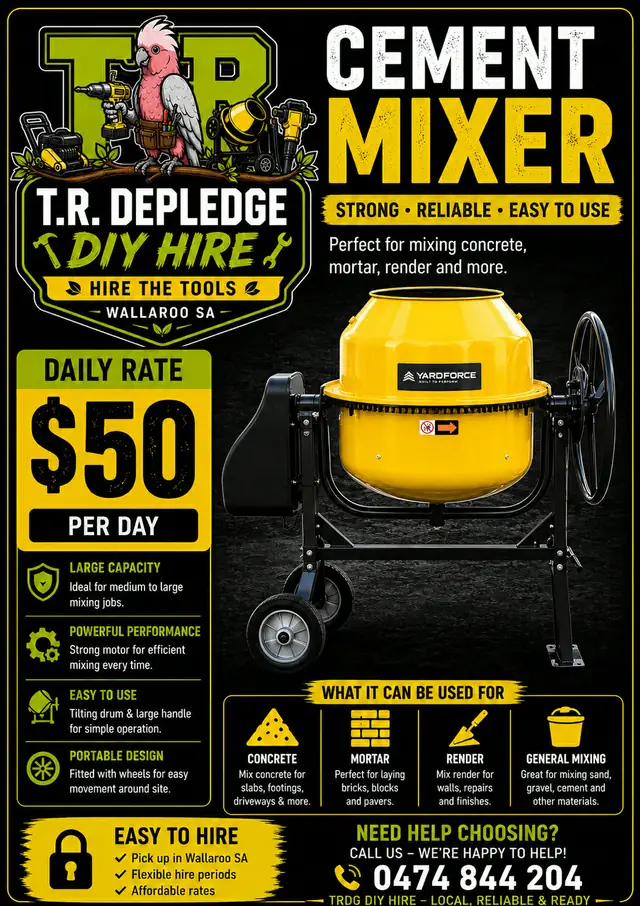
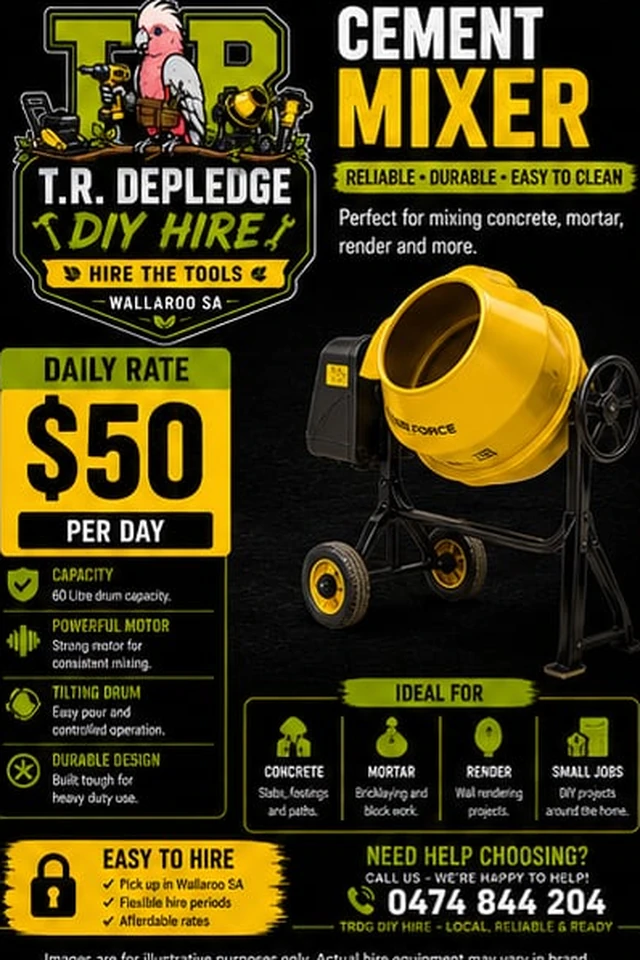
Hire: card photos cut from the new flyers, so they match
The cards and the flyers had drifted apart. On the live page the digger
was orange and the breaker was blue while their flyers showed yellow ones,
and two cards had the OLD flyer's own text baked into the crop — a line of
body copy across the top of the mixer, a slice of rate block beside the
breaker.

Worse, the flyers those cards linked to still quoted the old prices: $80
digger, $80 hammer, $30 roller, against $50 apiece in the database. A
customer opening "View the flyer" was reading a different price from the
one on the card.

All five panels of the new sheet are now cut out and installed, and each
card photo is lifted from its own panel. Taking both from one source makes
that class of mistake impossible rather than merely fixed.

THE ROLLER'S DRUM IS REPAINTED BRAND YELLOW. Charcoal on near-black, it
vanished — the card read as a floating handle with nothing attached. The
mask is a traced polygon, not a box or an ellipse: the drum is a cylinder
seen end-on and neither shape fits it, one leaving the corners grey and the
other painting the backdrop either side. A brightness floor inside the
polygon lets the shadowed underside fade out instead of stopping dead on
the outline, and existing yellow is skipped so the handle crossing the drum
keeps its own shading. Applied to the panel BEFORE it's cut up, so the
flyer and the card can't disagree about what colour the tool is.

RESOLUTION IS THE COST AND IT IS DELIBERATE. Panels on the sheet are about
[…]

diff --git a/scripts/hire-flyers/import-flyer-sheet.py b/scripts/hire-flyers/import-flyer-sheet.py
@@ -1,0 +1,178 @@
+#!/usr/bin/env python3
+"""Bring Thomas's printed flyer sheet into the site.
+
+He supplies the flyers as one composite image with several panels on it.
+This cuts them apart into the per-item flyers the hire page links to, and
+lifts the product shot out of each panel to use as the card photo — so the
+card and the flyer show the same machine, which they hadn't been.
+
+    python3 scripts/hire-flyers/import-flyer-sheet.py <sheet.png>
+
+WHY THE CARD PHOTOS COME OUT OF THE FLYERS
+
+Because otherwise they drift. The cards were showing an orange auger and a
+blue breaker while the flyers showed yellow ones, and two of them had the
+old flyer's own text baked into the crop — visible on the live page. Taking
+both from one source makes that class of mistake impossible.
+
+RESOLUTION IS THE PRICE
+
+Panels on the sheet are around 390x590, against the 640x960 the printed
+flyers use, so everything here is upscaled and softer than a native export
+would be. That's accepted deliberately: the flyers this replaces quote
+rates that are no longer true, and a soft flyer with the right price beats
+a sharp one with the wrong one. Supply full-size exports and re-run this —
+the boxes below are the only thing that would need revisiting.
+
+Coordinates are for the 1298x1212 sheet. If the sheet is re-exported at a
+different size the script says so rather than cutting garbage.
+"""
+
+import sys
+from pathlib import Path
+
+from PIL import Image, ImageFilter
+
+SHEET_SIZE = (1298, 1212)
+
+# Panel boundaries on the sheet.
+PANELS = {
+    "cement-mixer": (19, 15, 417, 606),
+    "post-hole-digger": (447, 17, 836, 606),
+    "demolition-hammer": (876, 17, 1279, 601),
+    "lawn-roller": (230, 645, 592, 1212),
+    "deutscher-slasher": (630, 645, 1015, 1212),
+}
+
+# The machine within each panel, in panel-local coordinates. Kept clear of
+# the headings and the feature lists — a card showing half a sentence of
+# flyer copy is exactly the defect this is fixing.
+PRODUCT = {
+    "cement-mixer": (168, 163, 398, 398),
+    "post-hole-digger": (185, 165, 389, 400),
+    # Left edge starts past the DAILY RATE block, which sits at x<140
+    # on this panel; the feature list below starts at y>305.
+    "demolition-hammer": (152, 180, 403, 302),
+    "lawn-roller": (138, 194, 362, 386),
+    "deutscher-slasher": (158, 193, 385, 365),
+}
+
+# Parts of a machine that disappear against the flyer's black ground, and
+# the ellipse to repaint them in. The roller's drum is charcoal on near
+# black — on the card it read as a floating yellow handle with nothing
+# attached. Brand yellow is what the rest of the floor already wears.
+#
+# Panel-local coordinates, applied BEFORE the panel is cut up, so the flyer
+# and the card photo can't end up disagreeing about what colour the tool is.
+# A polygon, not a box or an ellipse: the drum is a cylinder seen end-on
+# and neither shape fits it — an inscribed ellipse leaves its corners grey,
+# a box paints the background either side. Traced off the panel.
+TINT_TO_BRAND = {
+    "lawn-roller": [
+        (146, 316), (158, 299), (236, 290), (266, 302),
+        (272, 350), (250, 383), (172, 393), (149, 373),
+    ],
+}
+
+# Inside the polygon, only pixels this bright are repainted. The drum's
+# shadowed underside is as dark as the backdrop, and letting it fade out
+# rather than cutting it at the polygon edge is what stops the tint reading
+# as a sticker laid over the photo.
+TINT_MIN_VALUE = 0.16
+
+BRAND_HUE = 0.1385      # #ffd400, same figure recolour-to-brand.py uses
+BRAND_SATURATION = 0.88
+
+# The house flyer size, matching the ones already printed.
+FLYER_SIZE = (640, 960)
+CARD_WIDTH = 560
+
+
+def tint_to_brand(panel: Image.Image, polygon: list) -> int:
+    """Repaint a part of the machine in brand yellow.
+
+    Masked by a traced polygon, with a brightness floor inside it so the
+    drum's shadowed edge fades out instead of stopping dead on the outline.
+    Existing yellow is skipped so the handle crossing the drum keeps its own
+    shading instead of being flattened into it.
+
+    Only the hue and saturation are imposed; the pixel's own brightness is
+    kept (lifted a little, since charcoal is too dark to read as yellow at
+    all). That preserves the sheen along the drum, so it still looks like a
+    photographed cylinder rather than a yellow blob.
+    """
+    import colorsys
+
+    from PIL import ImageDraw
+
+    mask = Image.new("1", panel.size, 0)
+    ImageDraw.Draw(mask).polygon(polygon, fill=1)
+    mpx = mask.load()
+    px = panel.load()
+    xs = [p[0] for p in polygon]
+    ys = [p[1] for p in polygon]
+    changed = 0
+
+    for y in range(min(ys), max(ys) + 1):
+        for x in range(min(xs), max(xs) + 1):
+            if not mpx[x, y]:
+                continue
+            r, g, b = px[x, y][:3]
+            h, s, v = colorsys.rgb_to_hsv(r / 255, g / 255, b / 255)
+            if v < TINT_MIN_VALUE:
+                continue
+            if s > 0.30 and 0.08 < h < 0.20:
+                continue  # already brand yellow — the handle
+            nv = min(1.0, 0.20 + v * 0.80)
+            nr, ng, nb = colorsys.hsv_to_rgb(BRAND_HUE, BRAND_SATURATION, nv)
+            px[x, y] = (round(nr * 255), round(ng * 255), round(nb * 255))
+            changed += 1
+    return changed
+
+
+def import_sheet(sheet: Image.Image, out: Path) -> None:
+    for slug, box in PANELS.items():
+        panel = sheet.crop(box)
+        if slug in TINT_TO_BRAND:
+            print(f"{slug}: {tint_to_brand(panel, TINT_TO_BRAND[slug])} px tinted to brand yellow")
+        flyer = panel.resize(FLYER_SIZE, Image.LANCZOS)
+        flyer.save(out / f"flyer-{slug}.webp", "WEBP", quality=90, method=6)
+        print(f"flyer-{slug}.webp      from {panel.size[0]}x{panel.size[1]}")
+
+        if slug not in PRODUCT:
+            continue
+        shot = panel.crop(PRODUCT[slug])
+        card = shot.resize(
+            (CARD_WIDTH, round(CARD_WIDTH * shot.height / shot.width)), Image.LANCZOS
+        )
+        # A touch of sharpening back after a 2-3x upscale. Not magic, but it
+        # stops the tools looking like they were photographed through a
+        # window.
+        card = card.filter(ImageFilter.UnsharpMask(radius=1.4, percent=70, threshold=3))
+        card.save(out / f"{slug}.webp", "WEBP", quality=90, method=6)
+        print(f"{slug}.webp           from {shot.size[0]}x{shot.size[1]}")
+
+
+def main() -> int:
+    if len(sys.argv) < 2:
+        print(__doc__)
+        return 1
+    sheet = Image.open(sys.argv[1]).convert("RGB")
+    if sheet.size != SHEET_SIZE:
+        print(
+            f"Sheet is {sheet.size[0]}x{sheet.size[1]}, expected "
+            f"{SHEET_SIZE[0]}x{SHEET_SIZE[1]}. The panel boxes are pixel "
+            f"coordinates on that exact sheet — re-measure them before "
+            f"running against a different export.",
+            file=sys.stderr,
+        )
+        return 1
+
+    out = Path(__file__).resolve().parents[2] / "public" / "hire"
+    import_sheet(sheet, out)
+    print("\nCheck the rates on the new flyers still match equipment.daily_rate.")
+    return 0
+
+
+if __name__ == "__main__":
+    raise SystemExit(main())
